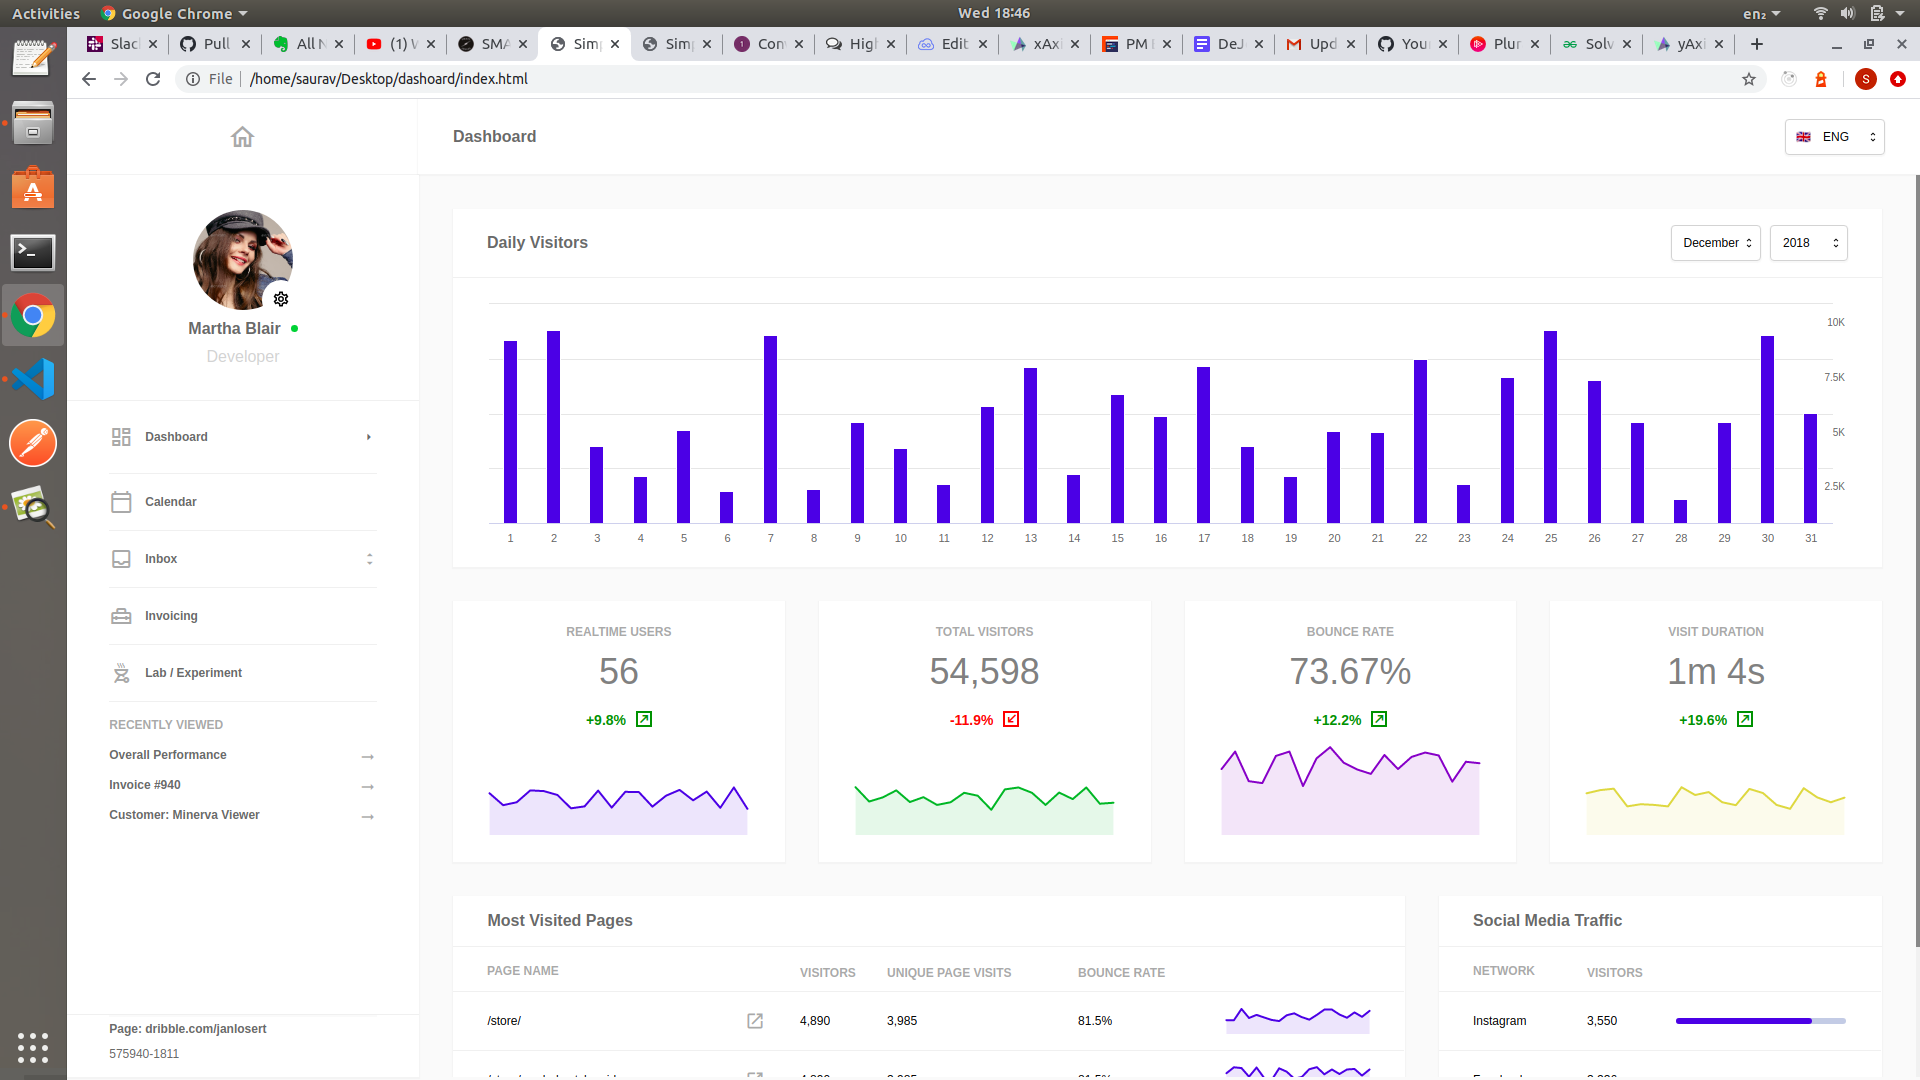
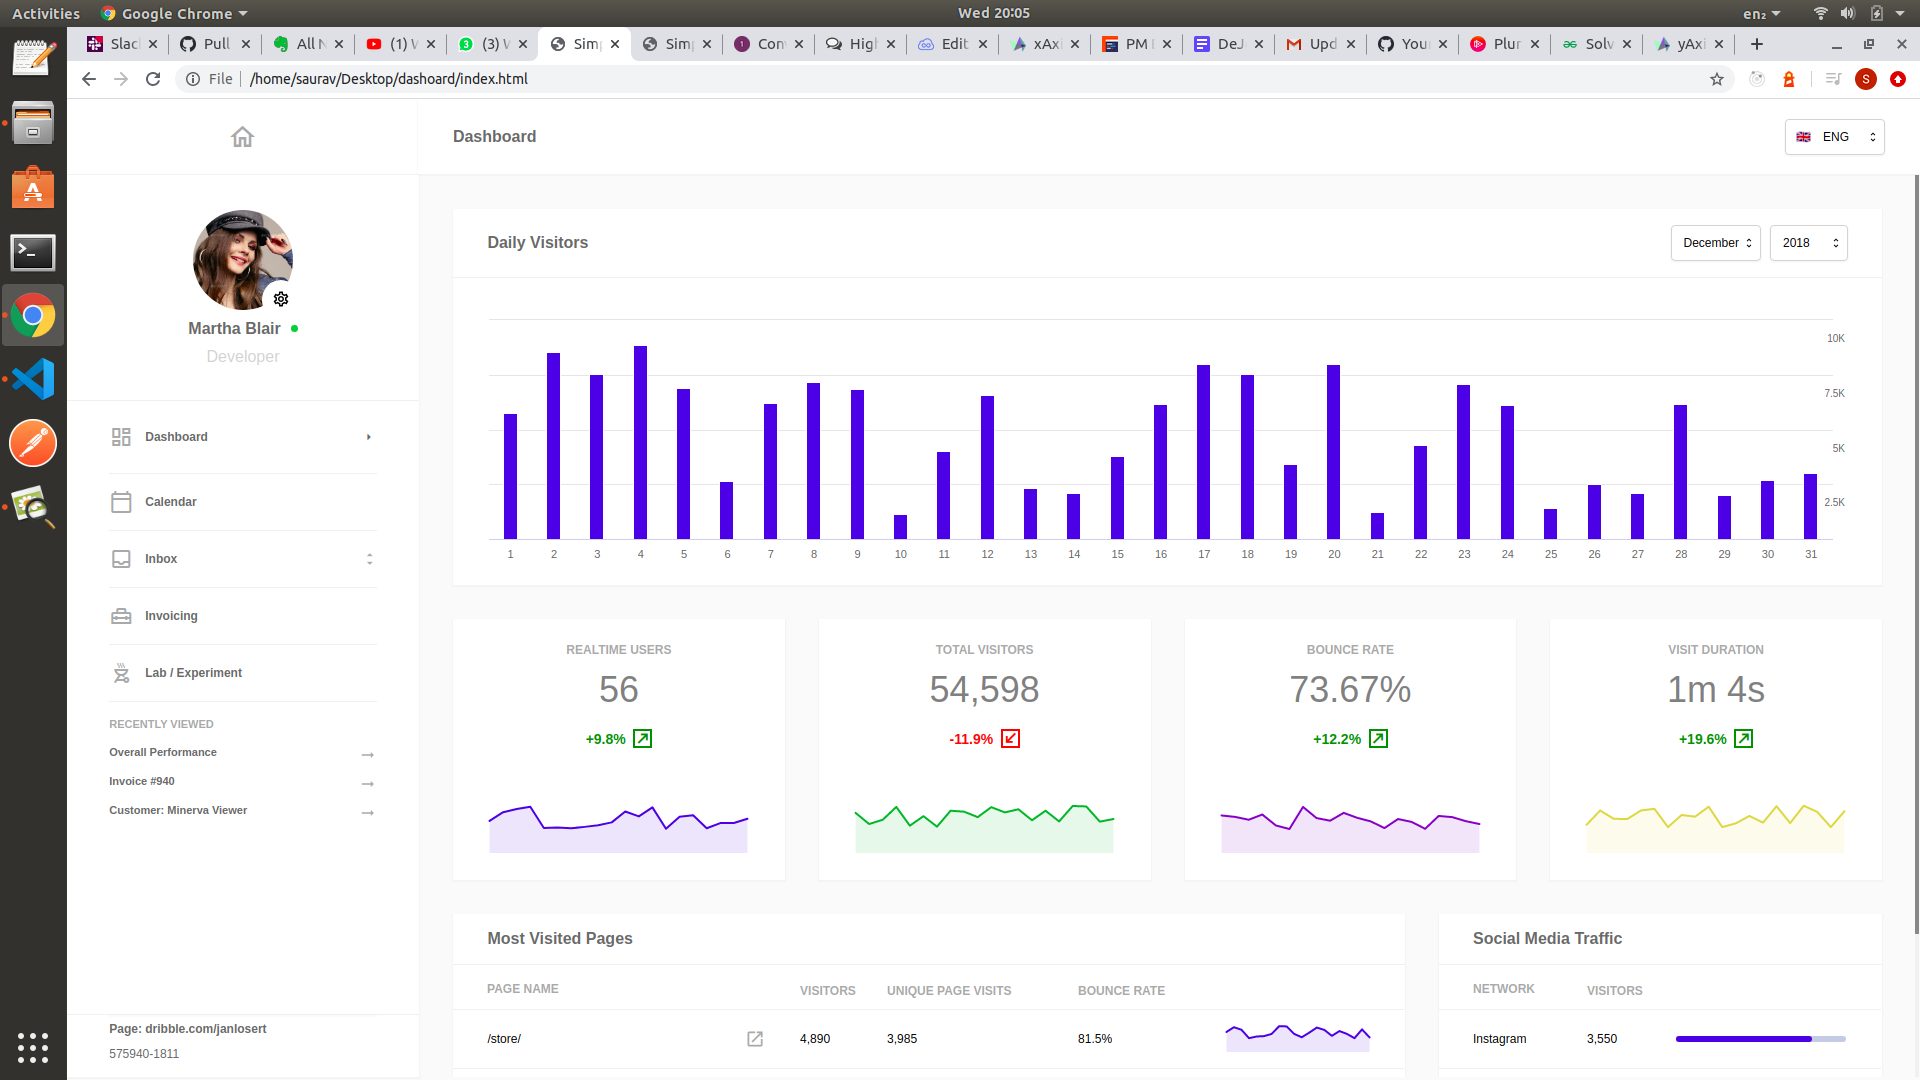
column chart alignment

diff --git a/index.html b/index.html
@@ -322,7 +322,7 @@
           <!-- dash main contents -->
           <div class="dash--content">
             <!-- upper card -->
-            <div style="background: white; height: 358px" class="shadow">
+            <div style="background: white; height: 376px" class="shadow">
               <!-- upper content -->
               <div class="upper-cards--top-content">
                 <div class="dash--fonts" style="font-weight: 600">
@@ -353,7 +353,7 @@
                   </select>
                 </div>
               </div>
-              <div class="dash--seperation-line"></div>
+              <div class="dash--seperation-line" style="margin: 0em 0.5em 2em 0em;"></div>
               <div>
                 <div
                   id="container"
